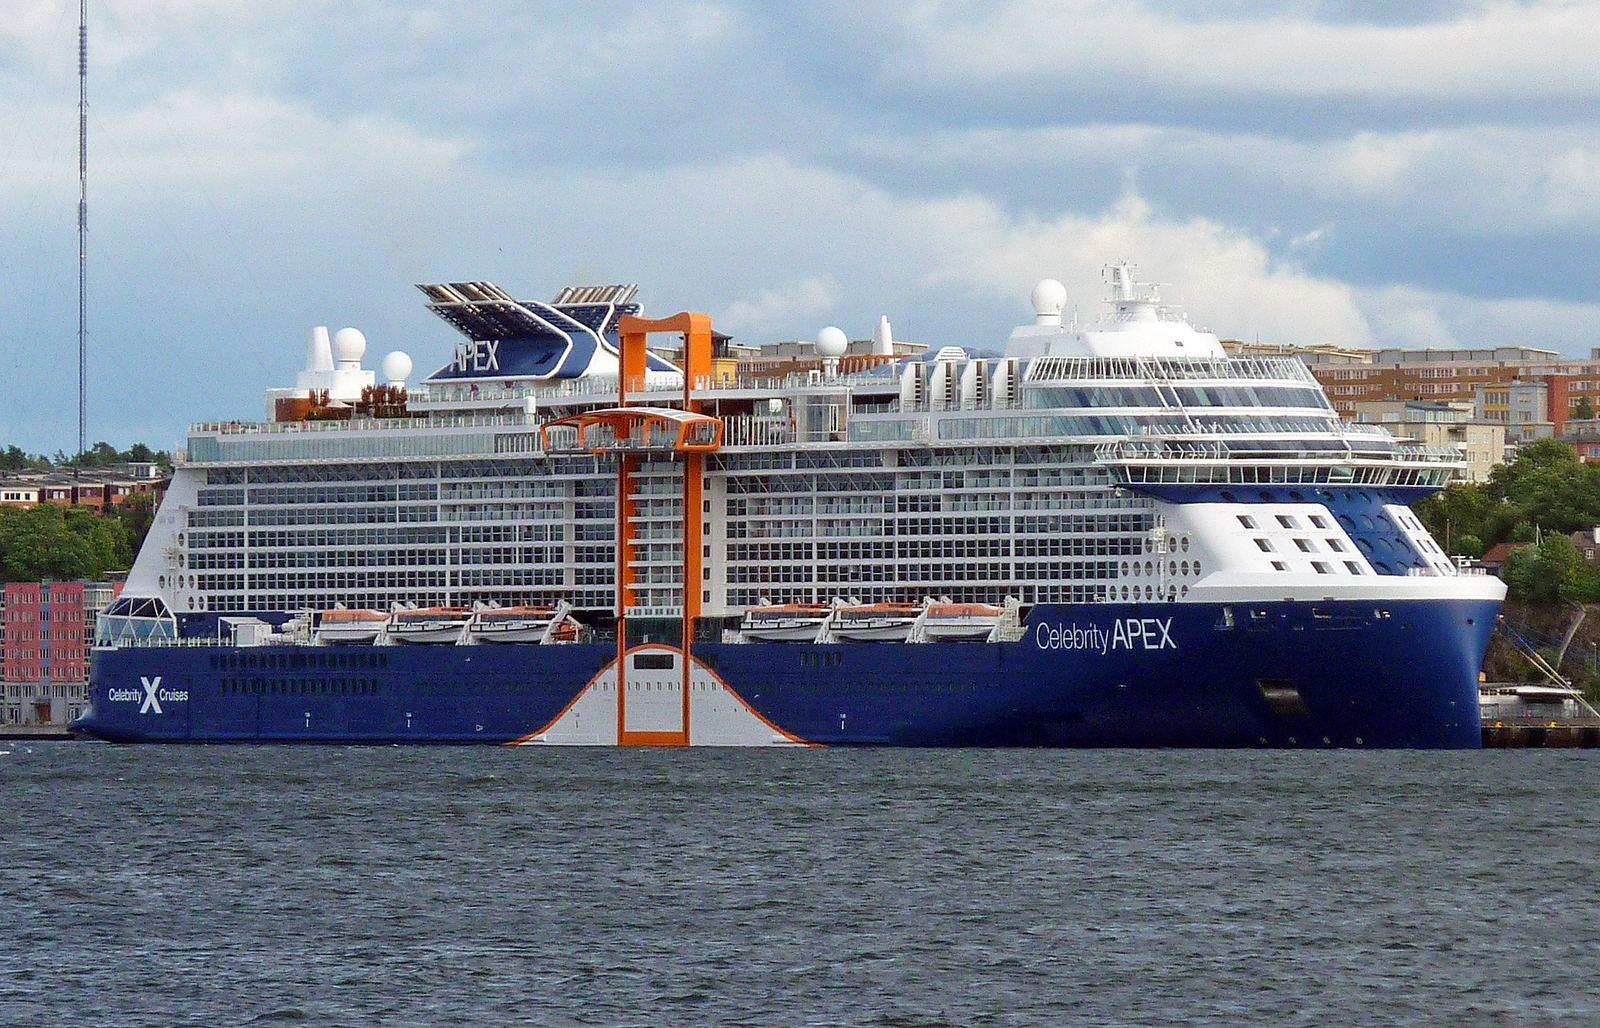
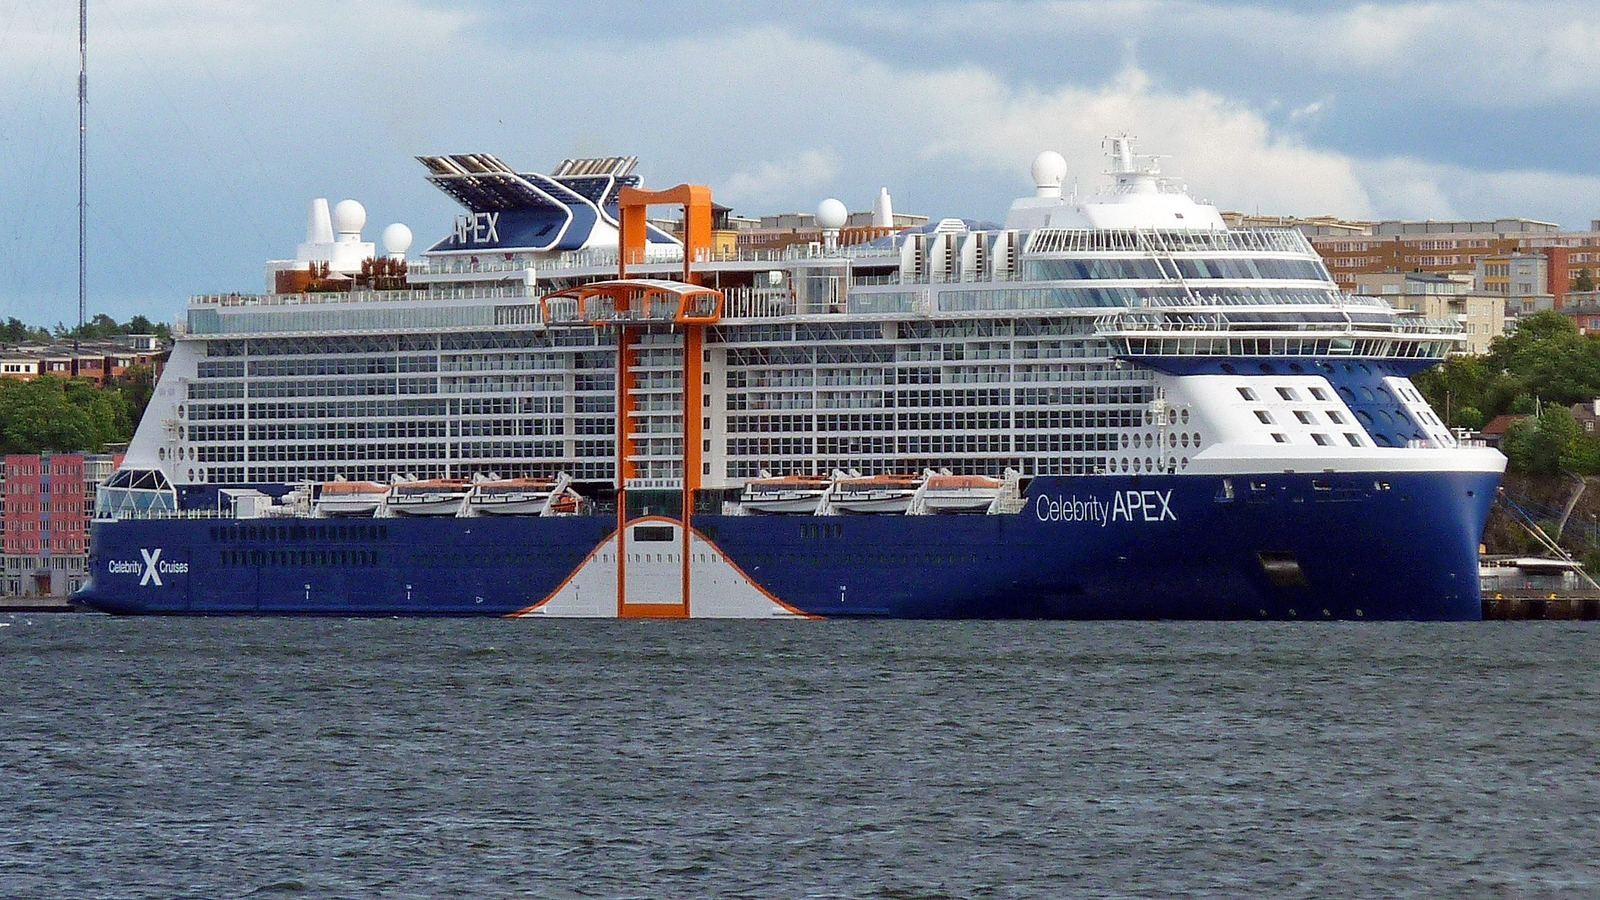
Ship heroes: Celebrity Apex/Xcel/Eclipse/Silhouette/Constellation/Summit/Millennium/Equinox/Edge 16:9 height-crops for fleet cards

diff --git a/ships/LICENCE-celebrity-16x9-height-crops.md b/ships/LICENCE-celebrity-16x9-height-crops.md
@@ -1,0 +1,84 @@
+# LICENCE — Celebrity 16:9 height-crops (fleet card heroes)
+
+**Status:** LIVE — Nate AUTH + GO LIVE 2026-09-20. Pushed to `ships/` dual-host slugs.
+
+**Note:** These crops are derivatives of the same Wikimedia Commons source bytes. Cropped sky/water (or L/R water for Edge) only; hull / bow / stern intact. Share-alike and attribution obligations of the source licence continue to apply to the derivative.
+
+---
+
+## celebrity-apex.jpg (+ `celebrity-cruises--celebrity-apex.jpg`)
+- **Licence:** **CC BY 3.0**
+- **Author:** Wolfgang Fricke
+- **Crop:** height-skywater 1600×1028 → 1600×900 (box primarily sky trim); bow/stern/hull verified intact
+- **Source note:** authorised-batch-02 pick B
+
+## celebrity-xcel.jpg (+ `celebrity-cruises--celebrity-xcel.jpg`)
+- **Licence:** **CC BY-SA 4.0**
+- **Author:** Pjotr Mahhonin
+- **Crop:** manual height 1600×1200 → 1600×900 (sky ~170 + water ~130); mast/funnel/bow/stern intact
+- **Source note:** authorised-batch-03 pick A
+
+## celebrity-eclipse.jpg (+ `celebrity-cruises--celebrity-eclipse.jpg`)
+- **Licence:** **CC BY-SA 4.0**
+- **Author:** Paul Harrison
+- **Crop:** height-skywater 1920×1279 → 1920×1080; verified intact
+- **Source note:** authorised-batch-06 pick A
+
+## celebrity-silhouette.jpg (+ `celebrity-cruises--celebrity-silhouette.jpg`)
+- **Licence:** **CC BY 2.0**
+- **Author:** Tony Hisgett
+- **Crop:** height-skywater 1920×1440 → 1920×1080; verified intact
+- **Source note:** authorised-batch-06 veto B
+
+## celebrity-constellation.jpg (+ `celebrity-cruises--celebrity-constellation.jpg`)
+- **Licence:** **CC BY-SA 4.0**
+- **Author:** Z thomas
+- **Crop:** height-skywater 1920×1440 → 1920×1080; verified intact
+- **Source note:** authorised-batch-07 pick A
+
+## celebrity-summit.jpg (+ `celebrity-cruises--celebrity-summit.jpg`)
+- **Licence:** **CC BY-SA 4.0**
+- **Author:** Master0Garfield
+- **Crop:** height-skywater 1920×1440 → 1920×1080; verified intact
+- **Source note:** authorised-batch-07 pick A
+
+## celebrity-millennium.jpg (+ `celebrity-cruises--celebrity-millennium.jpg`)
+- **Licence:** **CC BY-SA 3.0**
+- **Author:** Spaceaero2
+- **Commons:** Celebrity_Millennium_at_Kurushima_Strait
+- **Crop:** height-skywater 2400×1714 → 2400×1350; verified intact
+
+## celebrity-equinox.jpg (+ `celebrity-cruises--celebrity-equinox.jpg`)
+- **Licence:** **CC BY 3.0**
+- **Author:** Marc Ryckaert
+- **Commons:** MS_Celebrity_Equinox_R02
+- **Crop:** height-skywater 2200×1481 → 2200×1238; verified intact
+
+## celebrity-edge.jpg (+ `celebrity-cruises--celebrity-edge.jpg`)
+- **Licence:** **CC BY-SA 4.0**
+- **Author:** Matthew Groh
+- **Crop:** center L/R water 1800×921 → 1637×921; bow/stern/Magic Carpet intact (tight side margins)
+- **Source note:** authorised-batch-03 veto A
+
+---
+
+## Not in this commit (do not overwrite)
+- **Solstice D / Reflection C** — already live at `de10427`
+- **Ascent / Infinity / Beyond** — already OK (no height-crop needed)
+
+## Attribution (site captions if needed)
+- Apex: Wolfgang Fricke / Wikimedia Commons (CC BY 3.0)
+- Xcel: Pjotr Mahhonin / Wikimedia Commons (CC BY-SA 4.0)
+- Eclipse: Paul Harrison / Wikimedia Commons (CC BY-SA 4.0)
+- Silhouette: Tony Hisgett / Wikimedia Commons (CC BY 2.0)
+- Constellation: Z thomas / Wikimedia Commons (CC BY-SA 4.0)
+- Summit: Master0Garfield / Wikimedia Commons (CC BY-SA 4.0)
+- Millennium: Spaceaero2 / Wikimedia Commons (CC BY-SA 3.0)
+- Equinox: Marc Ryckaert / Wikimedia Commons (CC BY 3.0)
+- Edge: Matthew Groh / Wikimedia Commons (CC BY-SA 4.0)
+
+## Dual-host GitHub paths
+- `ships/celebrity-{ship}.jpg`
+- `ships/celebrity-cruises--celebrity-{ship}.jpg`
+
+for ship in: apex, xcel, eclipse, silhouette, constellation, summit, millennium, equinox, edge
